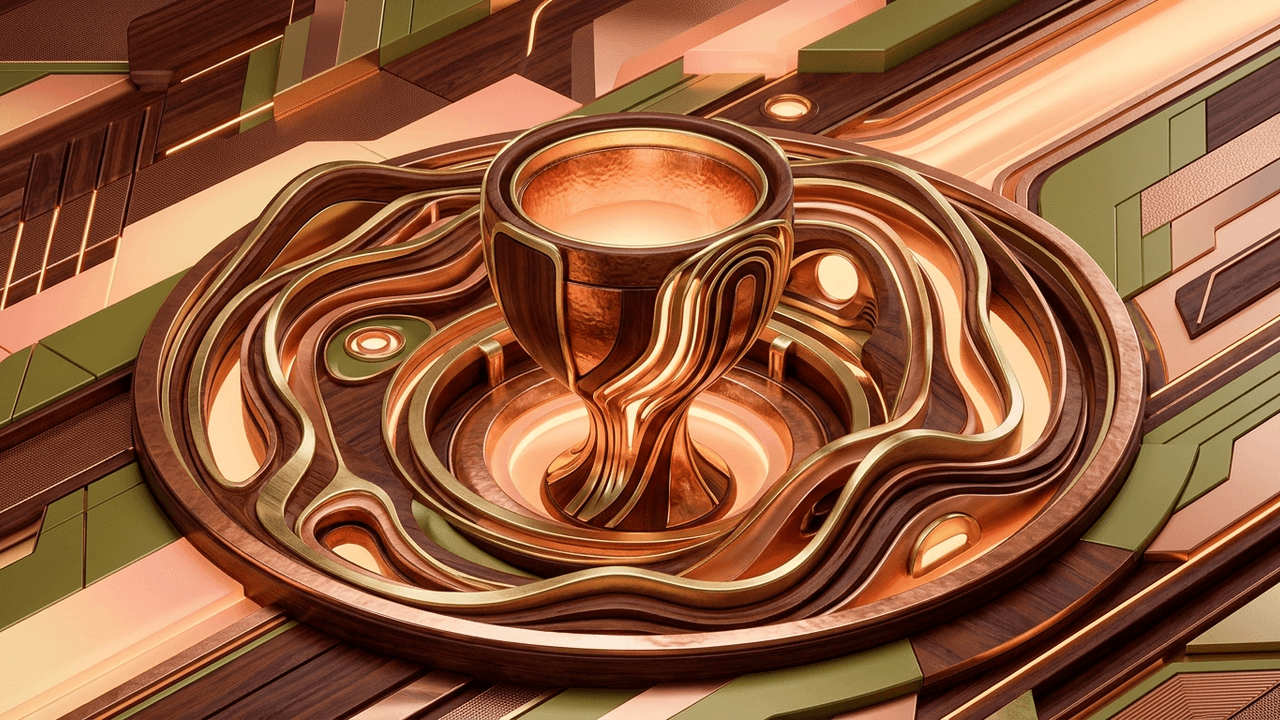
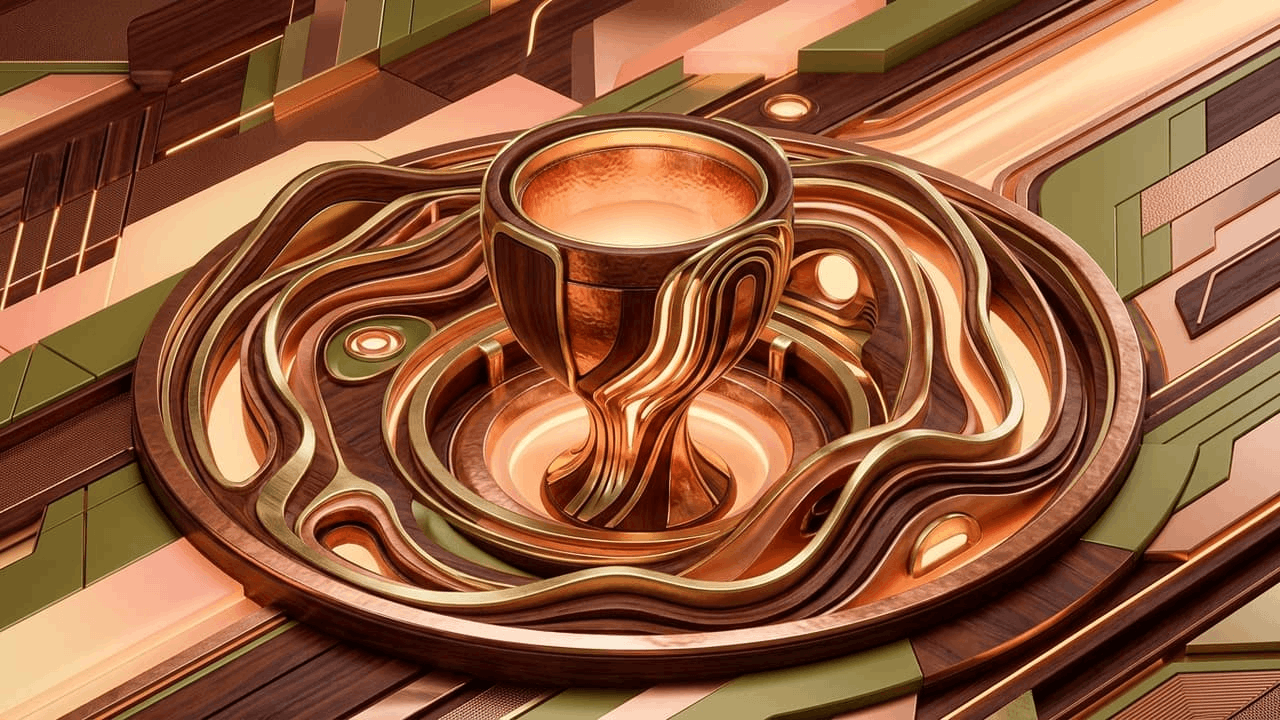
perf(blog): tighten PNG palette quantization under 400 KB limit

diff --git a/scripts/generate-daily-post.js b/scripts/generate-daily-post.js
@@ -600,9 +600,11 @@ async function processAndSaveBlogImages(imageBuffer, imageSlug, blogAssetsDir) {
     }
 
     // Optimize quantized PNG (target <= 400 KB)
-    let pngBuf = await base.clone().png({ quality: 75, palette: true, compressionLevel: 9 }).toBuffer();
-    if (pngBuf.length > 400 * 1024) {
-        pngBuf = await base.clone().png({ colours: 128, quality: 65, palette: true, compressionLevel: 9 }).toBuffer();
+    let pngColours = 256;
+    let pngBuf = await base.clone().png({ colours: pngColours, quality: 75, palette: true, compressionLevel: 9, dither: 0.5 }).toBuffer();
+    while (pngBuf.length > 395 * 1024 && pngColours > 48) {
+        pngColours = Math.max(48, Math.floor(pngColours * 0.7));
+        pngBuf = await base.clone().png({ colours: pngColours, quality: 70, palette: true, compressionLevel: 9, dither: 0.35 }).toBuffer();
     }
 
     const webpPath = path.join(blogAssetsDir, `${imageSlug}.webp`);
